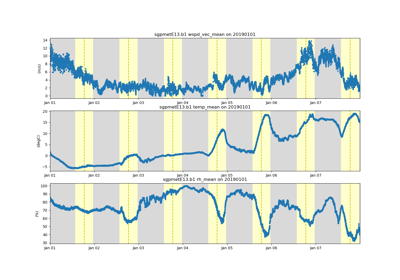
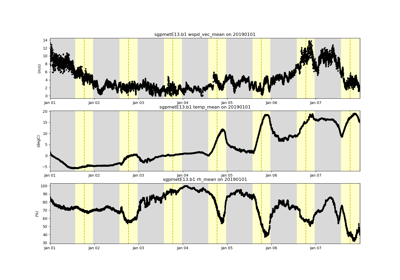
Update docs after building Travis build 20 of ANL-DIGR/ACT
The docs were built from the branch 'master' against the commit
f378dfc33ecbd9dd4ad20f213ddc9279e0b0f3ac.

The Travis build that generated this commit is at
https://travis-ci.org/ANL-DIGR/ACT/jobs/510134989.

The doctr command that was run is

    /home/travis/miniconda3/envs/testenv/bin/doctr deploy .

diff --git a/searchindex.js b/searchindex.js
@@ -1,1 +1,1 @@
-Search.setIndex({docnames:["API/corrections","API/discovery","API/generated/act.corrections.ceil.correct_ceil","API/generated/act.discovery.download_data","API/generated/act.io.armfiles.ARMStandardsFlag","API/generated/act.io.armfiles.check_arm_standards","API/generated/act.io.armfiles.read_netcdf","API/generated/act.io.dataset.ACTAccessor","API/generated/act.plotting.TimeSeriesDisplay","API/generated/act.plotting.common.get_date_format","API/generated/act.plotting.common.parse_ax","API/generated/act.plotting.common.parse_ax_fig","API/generated/act.utils.data_utils.add_in_nan","API/generated/act.utils.datetime_utils.dates_between","API/index","API/io","API/plotting","API/retrievals","API/utils","index","installation","release-history","source/auto_examples/ceil_example","source/auto_examples/index","source/auto_examples/plot_sonde","source/auto_examples/sg_execution_times","usage"],envversion:{"sphinx.domains.c":1,"sphinx.domains.changeset":1,"sphinx.domains.cpp":1,"sphinx.domains.javascript":1,"sphinx.domains.math":2,"sphinx.domains.python":1,"sphinx.domains.rst":1,"sphinx.domains.std":1,"sphinx.ext.intersphinx":1,"sphinx.ext.viewcode":1,sphinx:55},filenames:["API/corrections.rst","API/discovery.rst","API/generated/act.corrections.ceil.correct_ceil.rst","API/generated/act.discovery.download_data.rst","API/generated/act.io.armfiles.ARMStandardsFlag.rst","API/generated/act.io.armfiles.check_arm_standards.rst","API/generated/act.io.armfiles.read_netcdf.rst","API/generated/act.io.dataset.ACTAccessor.rst","API/generated/act.plotting.TimeSeriesDisplay.rst","API/generated/act.plotting.common.get_date_format.rst","API/generated/act.plotting.common.parse_ax.rst","API/generated/act.plotting.common.parse_ax_fig.rst","API/generated/act.utils.data_utils.add_in_nan.rst","API/generated/act.utils.datetime_utils.dates_between.rst","API/index.rst","API/io.rst","API/plotting.rst","API/retrievals.rst","API/utils.rst","index.rst","installation.rst","release-history.rst","source/auto_examples/ceil_example.rst","source/auto_examples/index.rst","source/auto_examples/plot_sonde.rst","source/auto_examples/sg_execution_times.rst","usage.rst"],objects:{"act.corrections.ceil":{correct_ceil:[2,1,1,""]},"act.discovery":{download_data:[3,1,1,""]},"act.io.armfiles":{ARMStandardsFlag:[4,2,1,""],check_arm_standards:[5,1,1,""],read_netcdf:[6,1,1,""]},"act.io.armfiles.ARMStandardsFlag":{__init__:[4,3,1,""]},"act.io.dataset":{ACTAccessor:[7,2,1,""]},"act.io.dataset.ACTAccessor":{__init__:[7,3,1,""]},"act.plotting":{TimeSeriesDisplay:[8,2,1,""]},"act.plotting.TimeSeriesDisplay":{__init__:[8,3,1,""]},"act.plotting.common":{get_date_format:[9,1,1,""],parse_ax:[10,1,1,""],parse_ax_fig:[11,1,1,""]},"act.utils.data_utils":{add_in_nan:[12,1,1,""]},"act.utils.datetime_utils":{dates_between:[13,1,1,""]},act:{corrections:[0,0,0,"-"],discovery:[1,0,0,"-"],io:[15,0,0,"-"],plotting:[16,0,0,"-"],retrievals:[17,0,0,"-"],utils:[18,0,0,"-"]}},objnames:{"0":["py","module","Python module"],"1":["py","function","Python function"],"2":["py","class","Python class"],"3":["py","method","Python method"]},objtypes:{"0":"py:module","1":"py:function","2":"py:class","3":"py:method"},terms:{"07t23":24,"class":[4,7,8],"final":26,"float":[2,9],"function":7,"import":[6,7,22,24,26],"long":9,"new":8,"return":[2,3,4,5,6,9,10,11,13],For:[8,26],The:[0,2,3,5,7,8,9,10,11,13,20,24,26],There:20,Ths:13,Will:7,__init__:[4,7,8],abil:21,abl:26,about:3,abov:26,access:[3,26],accessor:7,accur:[4,7,8],acquir:3,act:[14,19,20,22,24,26],act_obj:6,actaccessor:[14,19],adamtheisen:20,adc:3,add:[7,12,26],add_in_nan:[14,19],add_subplot:[8,24,26],addit:[7,20,26],all:[2,3,13,18,23,26],all_dat:13,allow:[3,26],along:26,also:[3,20,26],alt:[24,26],api:[3,19],archiv:[3,26],arg:4,argument:8,arm:[0,1,2,3,4,5,6,7,8,14,15,16,17,18,20,21,24,26],arm_obj:[2,8],arm_standards_flag:7,armfil:[14,19,22,24,26],armstandardsflag:[5,7,14,19],arrai:[13,24],assert:4,assign:24,atmos_pressur:24,atmospher:26,attr:24,attribut:[4,7,8,24],author:[3,24],auto_examples_jupyt:23,auto_examples_python:23,autom:3,automat:[3,7],avail:[8,12],averaging_interv:24,averaging_interval_com:24,axes:[8,26],axi:[8,9,10,11],backscatt:[2,22],bad:24,base:26,base_tim:24,being:8,between:[13,24],bit:24,bucket:24,build:20,calcul:24,call:8,can:[3,7,20,26],cbs:8,ceil:[14,19,22],ceil_d:22,ceil_exampl:[22,25],ceiliomet:[2,22],ceilomet:[23,25],celiomet:2,check:5,check_arm_standard:[4,14,19],chunksiz:24,click:[3,22,24],clone:20,code:[3,22,23,24,26],collect:24,colorbar:8,column:8,com:20,come:26,command_lin:24,common:[14,18,19],commun:[14,18,20,26],concaten:26,conform:[4,5,7],constructor:8,contact:3,contain:[0,1,2,8,13,15,16,17,18],convert:2,coordin:24,correct:[14,19,22],correct_ceil:[14,19,22],correspond:[5,7,12],creat:[8,24],criteria:3,cron:3,current:[3,10,11,24,26],custom:26,dai:9,dask:24,data:[1,2,3,6,7,12,21,23,25,26],data_level:24,data_util:[14,19],dataarrai:8,dataset:[0,2,4,5,6,8,9,14,15,16,19,21,24,26],datasetaccessor:26,datastream:[3,4,6,7,8,21,24,26],date:[3,7,8,9,13,14],dateformatt:9,dates_between:[14,19],datetim:[7,13],datetime64:24,datetime_util:[14,19],datset:17,day_to_hour_threshold:9,defin:6,describ:7,desir:26,detail:14,detector:24,devarakonda:3,dict:8,dictionari:8,differ:[23,24],dimens:[24,26],directori:3,discoveri:[14,19,22,26],disk:3,disp:8,displai:[8,22,24,26],document:[8,14],dod_vers:24,doe:4,download:[1,3,21,22,23,24,26],download_data:[14,19,22],dsmgr:24,e13:24,each:[7,8,14,24,26],eas:26,easi:26,edat:13,either:21,el6:24,elimin:3,email:3,end:[3,13],enddat:3,enter:2,equal:24,exampl:[3,4,6,8,19,25,26],example_sonde_wildcard:[6,24,26],execut:25,explor:1,extens:26,facility_id:24,field:[4,8,24],fig:[8,11,26],figsiz:[8,22,24,26],figur:[8,11,26],file:[3,5,6,7,8,24,25,26],file_d:[7,8],file_tim:7,filenam:6,fill:2,fill_valu:2,flag:[4,5],float32:24,float64:24,folder:[3,26],follow:[3,26],format:[3,9,13,26],found:3,from:[3,6,20,21,22,24,26],full:[22,24],further:26,g1ed516a:14,galleri:[19,22,24],gap:12,gaug:24,gener:[7,22,23,24,26],get:[10,11],get_data:26,get_date_format:[14,19],giansiracumt:3,giansiracusa:3,git:20,github:20,given:[7,9,10,11,12,26],gov:3,great:24,greater:24,hand:8,handbook:24,handl:[8,26],has:[8,26],have:[3,4,12],help:[3,4,7,8],here:[3,22,23,24],histori:[19,24],hour:9,how:[3,22,23,25,26],hpss:3,html:26,http:[20,26],includ:7,indetermin:24,indicat:24,inform:[3,8],ingest:24,initi:[4,7,8],input_sourc:24,insid:8,instal:19,instead:9,instrument:24,int32:24,interfac:3,ipynb:[22,24],irregular:12,jackson:24,jan:3,job:3,jupyt:[22,23,24],kei:8,keyword:8,kwarg:[4,8],lamont:24,lat:24,lcl:24,less:24,linear:2,link:[3,8],list:[6,7,8,26],live:3,load:[6,26],location_descript:24,log:3,logarithm:2,logger_temp:24,logger_volt:24,login:3,lon:24,long_nam:24,look:[23,25],machin:[3,24],main:26,make:[3,21,26],manual:3,mar:14,match:3,matplotlib:[8,9,10,11,22,24,26],met:[24,26],met_ingest:24,met_lcl:24,met_rh:24,met_temp:24,metadata:6,method:[7,8],michael:3,minut:[22,24],missing_valu:24,modifi:26,modul:[0,1,14,15,16,17,18,26],more:[3,8],multi:26,multipanel:[21,26],multipl:26,my_flag:4,myfmt:9,name:[3,6,7,8,26],nan:12,need:7,neg:2,netcdf:[3,6,26],no_datastream:4,none:[3,6,7,8,10,11],note:3,notebook:[22,23,24],number:[8,9],object:[2,6,8,9,26],obtain:3,off:26,oklahoma:[22,24],option:6,order:3,org:26,org_precip_rate_mean:24,ornl:3,other:3,out:24,output:[3,26],over:22,pack:24,panel:26,paramet:[2,3,5,6,8,9,10,11,13],pars:[10,11],parse_ax:[14,19],parse_ax_fig:[14,19],particular:26,pass:8,period:12,pip:20,place:[3,22],plain:24,platform_id:24,plot:[14,19,21,22,23,25,26],plot_sond:[24,25],plot_var:8,plt:[8,22,24,26],point:24,post46:14,preced:26,present:24,previou:24,print:[6,22,24,26],procedu:18,procedur:[0,1,2,12,13,14,15,16],process:3,process_vers:24,programmat:3,properti:26,provid:[8,14,23,26],pwd:24,pwd_cumul_rain:24,pwd_cumul_snow:24,pwd_err_cod:24,pwd_mean_vis_10min:24,pwd_mean_vis_1min:24,pwd_precip_rate_mean_1min:24,pwd_pw_code_15min:24,pwd_pw_code_1hr:24,pwd_pw_code_inst:24,pydata:26,pyplot:[22,24],python:[20,22,23,24],qc_atmos_pressur:24,qc_bit_1_assess:24,qc_bit_1_descript:24,qc_bit_2_assess:24,qc_bit_2_descript:24,qc_bit_3_assess:24,qc_bit_3_descript:24,qc_bit_4_assess:24,qc_bit_4_descript:24,qc_bit_com:24,qc_logger_temp:24,qc_logger_volt:24,qc_org_precip_rate_mean:24,qc_pwd_cumul_rain:24,qc_pwd_cumul_snow:24,qc_pwd_mean_vis_10min:24,qc_pwd_mean_vis_1min:24,qc_pwd_precip_rate_mean_1min:24,qc_pwd_pw_code_15min:24,qc_pwd_pw_code_1hr:24,qc_pwd_pw_code_inst:24,qc_rh_mean:24,qc_tbrg_precip_tot:24,qc_tbrg_precip_total_corr:24,qc_temp_mean:24,qc_vapor_pressure_mean:24,qc_wdir_vec_mean:24,qc_wspd_arith_mean:24,qc_wspd_vec_mean:24,queri:[3,6],rain:24,ranjeet:3,read:[6,7,15,21,23,26],read_netcdf:[8,14,19,22,24,26],reader:7,recommend:20,ref:4,refer:19,regist:[3,7],regular:3,releas:[14,19],replac:3,repres:[8,24],requir:26,rest:3,retriev:[14,19],rh_mean:[24,26],rh_std:24,robert:24,routin:26,row:8,rubi:24,run:[22,24],same:[3,8,26],sample_fil:[6,24,26],sampling_interv:24,savedata:3,script:[22,24],sdate:13,second:[22,24],see:[3,4,5,7,8,24],self:[4,7,8],seri:26,serial_numb:24,servic:3,set:[3,4,8,10,11],setup:[3,20],sgp:[22,24],sgpceilc1:22,sgpmete13:[3,24,26],shape:24,should:2,show:[7,14,22,24,26],signatur:[4,7,8],simpl:24,simpli:[8,26],singl:6,site:[7,22,24],site_id:24,snippet:26,sound:[6,23,25,26],sourc:[2,3,4,5,6,7,8,9,10,11,12,13,20,22,23,24],source_auto_exampl:25,southern:24,space:2,specif:3,specifi:26,sphinx:[22,23,24],spin:3,stabl:26,standard:[4,5,6,7,26],start:[3,13,26],startdat:3,step:3,store:[4,6,7,8,26],str:[3,6,7,8,13],string:[7,13,26],structur:7,subplot:[8,26],subplot_index:[22,24,26],subplot_shap:[8,22],support:[21,26],table1:24,take:[8,26],targer:11,target:[10,11],tbrg:24,tbrg_precip_corr_info:24,tbrg_precip_tot:24,tbrg_precip_total_corr:24,temp_mean:[24,26],temp_std:24,test:[6,24,26],than:24,the_d:[6,26],the_fil:8,the_flag:6,them:3,therefor:26,thi:[0,1,2,3,4,6,7,8,9,12,14,15,16,17,18,22,24,26],threshold:9,through:3,tick:9,time:[7,12,22,24,26],time_offset:24,timeseri:[8,12,21,23,25,26],timeseriesdisplai:[14,19,22,24,26],tip:24,token:[3,22,26],tool:3,toolkit:[14,18,20,26],total:[22,24,25],tupl:8,two:20,type:[4,7,8],under:9,unit:[6,24],until:8,url:3,usag:19,use:[2,3,9,20],used:[6,18,26],useful:12,user:[3,6,24,26],usernam:[3,22,26],uses:3,using:[3,23],util:[3,14,19],valid_max:24,valid_min:24,valu:[2,24],vapor_pressure_mean:24,vapor_pressure_std:24,variabl:[6,8,24],variou:[0,15,17],visual:23,wai:20,want:26,wdir_vec_mean:24,wdir_vec_std:24,weather:24,web:3,webservic:3,what:8,when:[7,12],whether:[5,7],which:3,wildcard:26,wind_speed_offset:24,wind_speed_slop:24,work:3,workspac:3,write:15,wspd_arith_mean:24,wspd_vec_mean:24,xarrai:[5,6,7,8,24,26],xarray_obj:7,xxxxxxxxxxxxxxxx:[3,26],you:20,your:[3,22],yourself:7,yyyi:3,yyyymmdd:13,zero:2,zip:23,zzr:3},titles:["act.corrections (act.corrections)","act.discovery (act.discovery)","act.corrections.ceil.correct_ceil","act.discovery.download_data","act.io.armfiles.ARMStandardsFlag","act.io.armfiles.check_arm_standards","act.io.armfiles.read_netcdf","act.io.dataset.ACTAccessor","act.plotting.TimeSeriesDisplay","act.plotting.common.get_date_format","act.plotting.common.parse_ax","act.plotting.common.parse_ax_fig","act.utils.data_utils.add_in_nan","act.utils.datetime_utils.dates_between","API Reference","act.io (act.io)","act.plotting (act.plotting)","act.retrievals (act.retrievals)","act.utils (act.utils)","Atmospheirc Community Toolkit Documentation","Installation","Release History","Example for looking at ceilometer data","ACT Example Gallery","Example on how to plot a timeseries of sounding data","Computation times","Usage"],titleterms:{act:[0,1,2,3,4,5,6,7,8,9,10,11,12,13,15,16,17,18,23],actaccessor:7,add_in_nan:12,api:14,armfil:[4,5,6],armstandardsflag:4,atmospheirc:19,ceil:2,ceilomet:22,check_arm_standard:5,common:[9,10,11],commun:19,comput:25,correct:[0,2],correct_ceil:2,data:[22,24],data_util:12,dataset:7,dates_between:13,datetime_util:13,discoveri:[1,3],document:19,download_data:3,exampl:[22,23,24],galleri:23,get_date_format:9,histori:21,how:24,instal:20,look:22,parse_ax:10,parse_ax_fig:11,plot:[8,9,10,11,16,24],read_netcdf:6,refer:14,releas:21,retriev:17,sound:24,time:25,timeseri:24,timeseriesdisplai:8,toolkit:19,usag:26,util:[12,13,18]}})
+Search.setIndex({docnames:["API/corrections","API/discovery","API/generated/act.corrections.ceil.correct_ceil","API/generated/act.discovery.download_data","API/generated/act.io.armfiles.ARMStandardsFlag","API/generated/act.io.armfiles.check_arm_standards","API/generated/act.io.armfiles.read_netcdf","API/generated/act.io.dataset.ACTAccessor","API/generated/act.plotting.TimeSeriesDisplay","API/generated/act.plotting.common.get_date_format","API/generated/act.plotting.common.parse_ax","API/generated/act.plotting.common.parse_ax_fig","API/generated/act.utils.data_utils.add_in_nan","API/generated/act.utils.datetime_utils.dates_between","API/index","API/io","API/plotting","API/retrievals","API/utils","index","installation","release-history","source/auto_examples/ceil_example","source/auto_examples/index","source/auto_examples/plot_sonde","source/auto_examples/sg_execution_times","usage"],envversion:{"sphinx.domains.c":1,"sphinx.domains.changeset":1,"sphinx.domains.cpp":1,"sphinx.domains.javascript":1,"sphinx.domains.math":2,"sphinx.domains.python":1,"sphinx.domains.rst":1,"sphinx.domains.std":1,"sphinx.ext.intersphinx":1,"sphinx.ext.viewcode":1,sphinx:55},filenames:["API/corrections.rst","API/discovery.rst","API/generated/act.corrections.ceil.correct_ceil.rst","API/generated/act.discovery.download_data.rst","API/generated/act.io.armfiles.ARMStandardsFlag.rst","API/generated/act.io.armfiles.check_arm_standards.rst","API/generated/act.io.armfiles.read_netcdf.rst","API/generated/act.io.dataset.ACTAccessor.rst","API/generated/act.plotting.TimeSeriesDisplay.rst","API/generated/act.plotting.common.get_date_format.rst","API/generated/act.plotting.common.parse_ax.rst","API/generated/act.plotting.common.parse_ax_fig.rst","API/generated/act.utils.data_utils.add_in_nan.rst","API/generated/act.utils.datetime_utils.dates_between.rst","API/index.rst","API/io.rst","API/plotting.rst","API/retrievals.rst","API/utils.rst","index.rst","installation.rst","release-history.rst","source/auto_examples/ceil_example.rst","source/auto_examples/index.rst","source/auto_examples/plot_sonde.rst","source/auto_examples/sg_execution_times.rst","usage.rst"],objects:{"act.corrections.ceil":{correct_ceil:[2,1,1,""]},"act.discovery":{download_data:[3,1,1,""]},"act.io.armfiles":{ARMStandardsFlag:[4,2,1,""],check_arm_standards:[5,1,1,""],read_netcdf:[6,1,1,""]},"act.io.armfiles.ARMStandardsFlag":{__init__:[4,3,1,""]},"act.io.dataset":{ACTAccessor:[7,2,1,""]},"act.io.dataset.ACTAccessor":{__init__:[7,3,1,""]},"act.plotting":{TimeSeriesDisplay:[8,2,1,""]},"act.plotting.TimeSeriesDisplay":{__init__:[8,3,1,""]},"act.plotting.common":{get_date_format:[9,1,1,""],parse_ax:[10,1,1,""],parse_ax_fig:[11,1,1,""]},"act.utils.data_utils":{add_in_nan:[12,1,1,""]},"act.utils.datetime_utils":{dates_between:[13,1,1,""]},act:{corrections:[0,0,0,"-"],discovery:[1,0,0,"-"],io:[15,0,0,"-"],plotting:[16,0,0,"-"],retrievals:[17,0,0,"-"],utils:[18,0,0,"-"]}},objnames:{"0":["py","module","Python module"],"1":["py","function","Python function"],"2":["py","class","Python class"],"3":["py","method","Python method"]},objtypes:{"0":"py:module","1":"py:function","2":"py:class","3":"py:method"},terms:{"07t23":24,"class":[4,7,8],"final":26,"float":[2,9],"function":7,"import":[6,7,22,24,26],"long":9,"new":8,"return":[2,3,4,5,6,9,10,11,13],For:[8,26],The:[0,2,3,5,7,8,9,10,11,13,20,24,26],There:20,Ths:13,Will:7,__init__:[4,7,8],abil:21,abl:26,about:3,abov:26,access:[3,26],accessor:7,accur:[4,7,8],acquir:3,act:[14,19,20,22,24,26],act_obj:6,actaccessor:[14,19],adamtheisen:20,adc:3,add:[7,12,26],add_in_nan:[14,19],add_subplot:[8,24,26],addit:[7,20,26],all:[2,3,13,18,23,26],all_dat:13,allow:[3,26],along:26,also:[3,20,26],alt:[24,26],api:[3,19],archiv:[3,26],arg:4,argument:8,arm:[0,1,2,3,4,5,6,7,8,14,15,16,17,18,20,21,24,26],arm_obj:[2,8],arm_standards_flag:7,armfil:[14,19,22,24,26],armstandardsflag:[5,7,14,19],arrai:[13,24],assert:4,assign:24,atmos_pressur:24,atmospher:26,attr:24,attribut:[4,7,8,24],author:[3,24],auto_examples_jupyt:23,auto_examples_python:23,autom:3,automat:[3,7],avail:[8,12],averaging_interv:24,averaging_interval_com:24,axes:[8,26],axi:[8,9,10,11],backscatt:[2,22],bad:24,base:26,base_tim:24,being:8,between:[13,24],bit:24,bucket:24,build:20,calcul:24,call:8,can:[3,7,20,26],cbs:8,ceil:[14,19,22],ceil_d:22,ceil_exampl:[22,25],ceiliomet:[2,22],ceilomet:[23,25],celiomet:2,check:5,check_arm_standard:[4,14,19],chunksiz:24,click:[3,22,24],clone:20,code:[3,22,23,24,26],collect:24,colorbar:8,column:8,com:20,come:26,command_lin:24,common:[14,18,19],commun:[14,18,20,26],concaten:26,conform:[4,5,7],constructor:8,contact:3,contain:[0,1,2,8,13,15,16,17,18],convert:2,coordin:24,correct:[14,19,22],correct_ceil:[14,19,22],correspond:[5,7,12],creat:[8,24],criteria:3,cron:3,current:[3,10,11,24,26],custom:26,dai:9,dask:24,data:[1,2,3,6,7,12,21,23,25,26],data_level:24,data_util:[14,19],dataarrai:8,dataset:[0,2,4,5,6,8,9,14,15,16,19,21,24,26],datasetaccessor:26,datastream:[3,4,6,7,8,21,24,26],date:[3,7,8,9,13,14],dateformatt:9,dates_between:[14,19],datetim:[7,13],datetime64:24,datetime_util:[14,19],datset:17,day_to_hour_threshold:9,defin:6,describ:7,desir:26,detail:14,detector:24,devarakonda:3,dict:8,dictionari:8,differ:[23,24],dimens:[24,26],directori:3,discoveri:[14,19,22,26],disk:3,disp:8,displai:[8,22,24,26],document:[8,14],dod_vers:24,doe:4,download:[1,3,21,22,23,24,26],download_data:[14,19,22],dsmgr:24,e13:24,each:[7,8,14,24,26],eas:26,easi:26,edat:13,either:21,el6:24,elimin:3,email:3,end:[3,13],enddat:3,enter:2,equal:24,exampl:[3,4,6,8,19,25,26],example_sonde_wildcard:[6,24,26],execut:25,explor:1,extens:26,facility_id:24,field:[4,8,24],fig:[8,11,26],figsiz:[8,22,24,26],figur:[8,11,26],file:[3,5,6,7,8,24,25,26],file_d:[7,8],file_tim:7,filenam:6,fill:2,fill_valu:2,flag:[4,5],float32:24,float64:24,folder:[3,26],follow:[3,26],format:[3,9,13,26],found:3,from:[3,6,20,21,22,24,26],full:[22,24],further:26,galleri:[19,22,24],gap:12,gaug:24,gener:[7,22,23,24,26],get:[10,11],get_data:26,get_date_format:[14,19],gf378dfc:14,giansiracumt:3,giansiracusa:3,git:20,github:20,given:[7,9,10,11,12,26],gov:3,great:24,greater:24,hand:8,handbook:24,handl:[8,26],has:[8,26],have:[3,4,12],help:[3,4,7,8],here:[3,22,23,24],histori:[19,24],hour:9,how:[3,22,23,25,26],hpss:3,html:26,http:[20,26],includ:7,indetermin:24,indicat:24,inform:[3,8],ingest:24,initi:[4,7,8],input_sourc:24,insid:8,instal:19,instead:9,instrument:24,int32:24,interfac:3,ipynb:[22,24],irregular:12,jackson:24,jan:3,job:3,jupyt:[22,23,24],kei:8,keyword:8,kwarg:[4,8],lamont:24,lat:24,lcl:24,less:24,linear:2,link:[3,8],list:[6,7,8,26],live:3,load:[6,26],location_descript:24,log:3,logarithm:2,logger_temp:24,logger_volt:24,login:3,lon:24,long_nam:24,look:[23,25],machin:[3,24],main:26,make:[3,21,26],manual:3,mar:14,match:3,matplotlib:[8,9,10,11,22,24,26],met:[24,26],met_ingest:24,met_lcl:24,met_rh:24,met_temp:24,metadata:6,method:[7,8],michael:3,minut:[22,24],missing_valu:24,modifi:26,modul:[0,1,14,15,16,17,18,26],more:[3,8],multi:26,multipanel:[21,26],multipl:26,my_flag:4,myfmt:9,name:[3,6,7,8,26],nan:12,need:7,neg:2,netcdf:[3,6,26],no_datastream:4,none:[3,6,7,8,10,11],note:3,notebook:[22,23,24],number:[8,9],object:[2,6,8,9,26],obtain:3,off:26,oklahoma:[22,24],option:6,order:3,org:26,org_precip_rate_mean:24,ornl:3,other:3,out:24,output:[3,26],over:22,pack:24,panel:26,paramet:[2,3,5,6,8,9,10,11,13],pars:[10,11],parse_ax:[14,19],parse_ax_fig:[14,19],particular:26,pass:8,period:12,pip:20,place:[3,22],plain:24,platform_id:24,plot:[14,19,21,22,23,25,26],plot_sond:[24,25],plot_var:8,plt:[8,22,24,26],point:24,post48:14,preced:26,present:24,previou:24,print:[6,22,24,26],procedu:18,procedur:[0,1,2,12,13,14,15,16],process:3,process_vers:24,programmat:3,properti:26,provid:[8,14,23,26],pwd:24,pwd_cumul_rain:24,pwd_cumul_snow:24,pwd_err_cod:24,pwd_mean_vis_10min:24,pwd_mean_vis_1min:24,pwd_precip_rate_mean_1min:24,pwd_pw_code_15min:24,pwd_pw_code_1hr:24,pwd_pw_code_inst:24,pydata:26,pyplot:[22,24],python:[20,22,23,24],qc_atmos_pressur:24,qc_bit_1_assess:24,qc_bit_1_descript:24,qc_bit_2_assess:24,qc_bit_2_descript:24,qc_bit_3_assess:24,qc_bit_3_descript:24,qc_bit_4_assess:24,qc_bit_4_descript:24,qc_bit_com:24,qc_logger_temp:24,qc_logger_volt:24,qc_org_precip_rate_mean:24,qc_pwd_cumul_rain:24,qc_pwd_cumul_snow:24,qc_pwd_mean_vis_10min:24,qc_pwd_mean_vis_1min:24,qc_pwd_precip_rate_mean_1min:24,qc_pwd_pw_code_15min:24,qc_pwd_pw_code_1hr:24,qc_pwd_pw_code_inst:24,qc_rh_mean:24,qc_tbrg_precip_tot:24,qc_tbrg_precip_total_corr:24,qc_temp_mean:24,qc_vapor_pressure_mean:24,qc_wdir_vec_mean:24,qc_wspd_arith_mean:24,qc_wspd_vec_mean:24,queri:[3,6],rain:24,ranjeet:3,read:[6,7,15,21,23,26],read_netcdf:[8,14,19,22,24,26],reader:7,recommend:20,ref:4,refer:19,regist:[3,7],regular:3,releas:[14,19],replac:3,repres:[8,24],requir:26,rest:3,retriev:[14,19],rh_mean:[24,26],rh_std:24,robert:24,routin:26,row:8,rubi:24,run:[22,24],same:[3,8,26],sample_fil:[6,24,26],sampling_interv:24,savedata:3,script:[22,24],sdate:13,second:[22,24],see:[3,4,5,7,8,24],self:[4,7,8],seri:26,serial_numb:24,servic:3,set:[3,4,8,10,11],setup:[3,20],sgp:[22,24],sgpceilc1:22,sgpmete13:[3,24,26],shape:24,should:2,show:[7,14,22,24,26],signatur:[4,7,8],simpl:24,simpli:[8,26],singl:6,site:[7,22,24],site_id:24,snippet:26,sound:[6,23,25,26],sourc:[2,3,4,5,6,7,8,9,10,11,12,13,20,22,23,24],source_auto_exampl:25,southern:24,space:2,specif:3,specifi:26,sphinx:[22,23,24],spin:3,stabl:26,standard:[4,5,6,7,26],start:[3,13,26],startdat:3,step:3,store:[4,6,7,8,26],str:[3,6,7,8,13],string:[7,13,26],structur:7,subplot:[8,26],subplot_index:[22,24,26],subplot_shap:[8,22],support:[21,26],table1:24,take:[8,26],targer:11,target:[10,11],tbrg:24,tbrg_precip_corr_info:24,tbrg_precip_tot:24,tbrg_precip_total_corr:24,temp_mean:[24,26],temp_std:24,test:[6,24,26],than:24,the_d:[6,26],the_fil:8,the_flag:6,them:3,therefor:26,thi:[0,1,2,3,4,6,7,8,9,12,14,15,16,17,18,22,24,26],threshold:9,through:3,tick:9,time:[7,12,22,24,26],time_offset:24,timeseri:[8,12,21,23,25,26],timeseriesdisplai:[14,19,22,24,26],tip:24,token:[3,22,26],tool:3,toolkit:[14,18,20,26],total:[22,24,25],tupl:8,two:20,type:[4,7,8],under:9,unit:[6,24],until:8,url:3,usag:19,use:[2,3,9,20],used:[6,18,26],useful:12,user:[3,6,24,26],usernam:[3,22,26],uses:3,using:[3,23],util:[3,14,19],valid_max:24,valid_min:24,valu:[2,24],vapor_pressure_mean:24,vapor_pressure_std:24,variabl:[6,8,24],variou:[0,15,17],visual:23,wai:20,want:26,wdir_vec_mean:24,wdir_vec_std:24,weather:24,web:3,webservic:3,what:8,when:[7,12],whether:[5,7],which:3,wildcard:26,wind_speed_offset:24,wind_speed_slop:24,work:3,workspac:3,write:15,wspd_arith_mean:24,wspd_vec_mean:24,xarrai:[5,6,7,8,24,26],xarray_obj:7,xxxxxxxxxxxxxxxx:[3,26],you:20,your:[3,22],yourself:7,yyyi:3,yyyymmdd:13,zero:2,zip:23,zzr:3},titles:["act.corrections (act.corrections)","act.discovery (act.discovery)","act.corrections.ceil.correct_ceil","act.discovery.download_data","act.io.armfiles.ARMStandardsFlag","act.io.armfiles.check_arm_standards","act.io.armfiles.read_netcdf","act.io.dataset.ACTAccessor","act.plotting.TimeSeriesDisplay","act.plotting.common.get_date_format","act.plotting.common.parse_ax","act.plotting.common.parse_ax_fig","act.utils.data_utils.add_in_nan","act.utils.datetime_utils.dates_between","API Reference","act.io (act.io)","act.plotting (act.plotting)","act.retrievals (act.retrievals)","act.utils (act.utils)","Atmospheirc Community Toolkit Documentation","Installation","Release History","Example for looking at ceilometer data","ACT Example Gallery","Example on how to plot a timeseries of sounding data","Computation times","Usage"],titleterms:{act:[0,1,2,3,4,5,6,7,8,9,10,11,12,13,15,16,17,18,23],actaccessor:7,add_in_nan:12,api:14,armfil:[4,5,6],armstandardsflag:4,atmospheirc:19,ceil:2,ceilomet:22,check_arm_standard:5,common:[9,10,11],commun:19,comput:25,correct:[0,2],correct_ceil:2,data:[22,24],data_util:12,dataset:7,dates_between:13,datetime_util:13,discoveri:[1,3],document:19,download_data:3,exampl:[22,23,24],galleri:23,get_date_format:9,histori:21,how:24,instal:20,look:22,parse_ax:10,parse_ax_fig:11,plot:[8,9,10,11,16,24],read_netcdf:6,refer:14,releas:21,retriev:17,sound:24,time:25,timeseri:24,timeseriesdisplai:8,toolkit:19,usag:26,util:[12,13,18]}})

diff --git a/_modules/act/plotting/plot.html b/_modules/act/plotting/plot.html
@@ -8,7 +8,7 @@
   
   <meta name="viewport" content="width=device-width, initial-scale=1.0">
   
-  <title>act.plotting.plot &mdash; Atmospheric Community Toolkit 0.post46+g1ed516a documentation</title>
+  <title>act.plotting.plot &mdash; Atmospheric Community Toolkit 0.post48+gf378dfc documentation</title>
   
 
   
@@ -62,7 +62,7 @@
             
             
               <div class="version">
-                0.post46+g1ed516a
+                0.post48+gf378dfc
               </div>
             
           
@@ -405,7 +405,7 @@
         <span class="k">return</span> <span class="n">cbar</span>
 
     <span class="k">def</span> <span class="nf">plot</span><span class="p">(</span><span class="bp">self</span><span class="p">,</span> <span class="n">field</span><span class="p">,</span> <span class="n">subplot_index</span><span class="o">=</span><span class="p">(</span><span class="mi">0</span><span class="p">,</span> <span class="p">),</span>
-             <span class="n">cmap</span><span class="o">=</span><span class="kc">None</span><span class="p">,</span> <span class="n">cbmin</span><span class="o">=</span><span class="kc">None</span><span class="p">,</span> <span class="n">cbmax</span><span class="o">=</span><span class="kc">None</span><span class="p">,</span> <span class="n">set_title</span><span class="o">=</span><span class="kc">None</span><span class="p">,</span>
+             <span class="n">line_color</span><span class="o">=</span><span class="s1">&#39;k&#39;</span><span class="p">,</span> <span class="n">cmap</span><span class="o">=</span><span class="kc">None</span><span class="p">,</span> <span class="n">cbmin</span><span class="o">=</span><span class="kc">None</span><span class="p">,</span> <span class="n">cbmax</span><span class="o">=</span><span class="kc">None</span><span class="p">,</span> <span class="n">set_title</span><span class="o">=</span><span class="kc">None</span><span class="p">,</span>
              <span class="n">add_nan</span><span class="o">=</span><span class="kc">False</span><span class="p">,</span> <span class="o">**</span><span class="n">kwargs</span><span class="p">):</span>
         <span class="sd">&quot;&quot;&quot;</span>
 <span class="sd">        Makes a timeseries plot. If subplots have not been added yet, an axis will</span>
@@ -421,6 +421,8 @@
 <span class="sd">            The index of the subplot to set the x range of.</span>
 <span class="sd">        cmap: matplotlib colormap</span>
 <span class="sd">            The colormap to use/</span>
+<span class="sd">        line_color: str</span>
+<span class="sd">            The color of the line.</span>
 <span class="sd">        cbmin: float</span>
 <span class="sd">            The minimum for the colorbar.</span>
 <span class="sd">        cbmax: float</span>
@@ -457,7 +459,7 @@
 
         <span class="k">if</span> <span class="n">ydata</span> <span class="ow">is</span> <span class="kc">None</span><span class="p">:</span>
             <span class="bp">self</span><span class="o">.</span><span class="n">day_night_background</span><span class="p">(</span><span class="n">subplot_index</span><span class="p">)</span>
-            <span class="n">ax</span><span class="o">.</span><span class="n">plot</span><span class="p">(</span><span class="n">xdata</span><span class="p">,</span> <span class="n">data</span><span class="p">,</span> <span class="s1">&#39;.&#39;</span><span class="p">)</span>
+            <span class="n">ax</span><span class="o">.</span><span class="n">plot</span><span class="p">(</span><span class="n">xdata</span><span class="p">,</span> <span class="n">data</span><span class="p">,</span> <span class="s1">&#39;.&#39;</span><span class="p">,</span> <span class="n">color</span><span class="o">=</span><span class="n">line_color</span><span class="p">)</span>
         <span class="k">else</span><span class="p">:</span>
             <span class="c1"># Add in nans to ensure the data are not streaking</span>
             <span class="k">if</span> <span class="n">add_nan</span> <span class="ow">is</span> <span class="kc">True</span><span class="p">:</span>

diff --git a/source/auto_examples/sg_execution_times.html b/source/auto_examples/sg_execution_times.html
@@ -8,7 +8,7 @@
   
   <meta name="viewport" content="width=device-width, initial-scale=1.0">
   
-  <title>Computation times &mdash; Atmospheric Community Toolkit 0.post46+g1ed516a documentation</title>
+  <title>Computation times &mdash; Atmospheric Community Toolkit 0.post48+gf378dfc documentation</title>
   
 
   
@@ -62,7 +62,7 @@
             
             
               <div class="version">
-                0.post46+g1ed516a
+                0.post48+gf378dfc
               </div>
             
           
@@ -158,9 +158,9 @@
             
   <div class="section" id="computation-times">
 <span id="sphx-glr-source-auto-examples-sg-execution-times"></span><h1>Computation times<a class="headerlink" href="#computation-times" title="Permalink to this headline">¶</a></h1>
-<p><strong>00:00.950</strong> total execution time for <strong>source_auto_examples</strong> files:</p>
+<p><strong>00:00.927</strong> total execution time for <strong>source_auto_examples</strong> files:</p>
 <ul class="simple">
-<li><strong>00:00.950</strong>: <a class="reference internal" href="plot_sonde.html#sphx-glr-source-auto-examples-plot-sonde-py"><span class="std std-ref">Example on how to plot a timeseries of sounding data</span></a> (<code class="docutils literal notranslate"><span class="pre">plot_sonde.py</span></code>)</li>
+<li><strong>00:00.927</strong>: <a class="reference internal" href="plot_sonde.html#sphx-glr-source-auto-examples-plot-sonde-py"><span class="std std-ref">Example on how to plot a timeseries of sounding data</span></a> (<code class="docutils literal notranslate"><span class="pre">plot_sonde.py</span></code>)</li>
 <li><strong>00:00.000</strong>: <a class="reference internal" href="ceil_example.html#sphx-glr-source-auto-examples-ceil-example-py"><span class="std std-ref">Example for looking at ceilometer data</span></a> (<code class="docutils literal notranslate"><span class="pre">ceil_example.py</span></code>)</li>
 </ul>
 </div>

diff --git a/source/auto_examples/plot_sonde.html b/source/auto_examples/plot_sonde.html
@@ -8,7 +8,7 @@
   
   <meta name="viewport" content="width=device-width, initial-scale=1.0">
   
-  <title>Example on how to plot a timeseries of sounding data &mdash; Atmospheric Community Toolkit 0.post46+g1ed516a documentation</title>
+  <title>Example on how to plot a timeseries of sounding data &mdash; Atmospheric Community Toolkit 0.post48+gf378dfc documentation</title>
   
 
   
@@ -64,7 +64,7 @@
             
             
               <div class="version">
-                0.post46+g1ed516a
+                0.post48+gf378dfc
               </div>
             
           
@@ -287,7 +287,7 @@ Attributes:
 <span class="n">plt</span><span class="o">.</span><span class="n">show</span><span class="p">()</span>
 </pre></div>
 </div>
-<p class="sphx-glr-timing"><strong>Total running time of the script:</strong> ( 0 minutes  0.950 seconds)</p>
+<p class="sphx-glr-timing"><strong>Total running time of the script:</strong> ( 0 minutes  0.927 seconds)</p>
 <div class="sphx-glr-footer class sphx-glr-footer-example docutils container" id="sphx-glr-download-source-auto-examples-plot-sonde-py">
 <div class="sphx-glr-download docutils container">
 <a class="reference download internal" download="" href="../../_downloads/7c5e6e9245e1798420bf072f87b153a6/plot_sonde.py"><code class="xref download docutils literal notranslate"><span class="pre">Download</span> <span class="pre">Python</span> <span class="pre">source</span> <span class="pre">code:</span> <span class="pre">plot_sonde.py</span></code></a></div>

diff --git a/API/index.html b/API/index.html
@@ -8,7 +8,7 @@
   
   <meta name="viewport" content="width=device-width, initial-scale=1.0">
   
-  <title>API Reference &mdash; Atmospheric Community Toolkit 0.post46+g1ed516a documentation</title>
+  <title>API Reference &mdash; Atmospheric Community Toolkit 0.post48+gf378dfc documentation</title>
   
 
   
@@ -64,7 +64,7 @@
             
             
               <div class="version">
-                0.post46+g1ed516a
+                0.post48+gf378dfc
               </div>
             
           
@@ -172,7 +172,7 @@
 <col class="field-name" />
 <col class="field-body" />
 <tbody valign="top">
-<tr class="field-odd field"><th class="field-name">Release:</th><td class="field-body">0.post46+g1ed516a</td>
+<tr class="field-odd field"><th class="field-name">Release:</th><td class="field-body">0.post48+gf378dfc</td>
 </tr>
 <tr class="field-even field"><th class="field-name">Date:</th><td class="field-body">Mar 22, 2019</td>
 </tr>

diff --git a/index.html b/index.html
@@ -8,7 +8,7 @@
   
   <meta name="viewport" content="width=device-width, initial-scale=1.0">
   
-  <title>Atmospheirc Community Toolkit Documentation &mdash; Atmospheric Community Toolkit 0.post46+g1ed516a documentation</title>
+  <title>Atmospheirc Community Toolkit Documentation &mdash; Atmospheric Community Toolkit 0.post48+gf378dfc documentation</title>
   
 
   
@@ -63,7 +63,7 @@
             
             
               <div class="version">
-                0.post46+g1ed516a
+                0.post48+gf378dfc
               </div>
             
           

diff --git a/source/auto_examples/ceil_example.html b/source/auto_examples/ceil_example.html
@@ -8,7 +8,7 @@
   
   <meta name="viewport" content="width=device-width, initial-scale=1.0">
   
-  <title>Example for looking at ceilometer data &mdash; Atmospheric Community Toolkit 0.post46+g1ed516a documentation</title>
+  <title>Example for looking at ceilometer data &mdash; Atmospheric Community Toolkit 0.post48+gf378dfc documentation</title>
   
 
   
@@ -64,7 +64,7 @@
             
             
               <div class="version">
-                0.post46+g1ed516a
+                0.post48+gf378dfc
               </div>
             
           

diff --git a/API/corrections.html b/API/corrections.html
@@ -8,7 +8,7 @@
   
   <meta name="viewport" content="width=device-width, initial-scale=1.0">
   
-  <title>act.corrections (act.corrections) &mdash; Atmospheric Community Toolkit 0.post46+g1ed516a documentation</title>
+  <title>act.corrections (act.corrections) &mdash; Atmospheric Community Toolkit 0.post48+gf378dfc documentation</title>
   
 
   
@@ -64,7 +64,7 @@
             
             
               <div class="version">
-                0.post46+g1ed516a
+                0.post48+gf378dfc
               </div>
             
           

diff --git a/API/retrievals.html b/API/retrievals.html
@@ -8,7 +8,7 @@
   
   <meta name="viewport" content="width=device-width, initial-scale=1.0">
   
-  <title>act.retrievals (act.retrievals) &mdash; Atmospheric Community Toolkit 0.post46+g1ed516a documentation</title>
+  <title>act.retrievals (act.retrievals) &mdash; Atmospheric Community Toolkit 0.post48+gf378dfc documentation</title>
   
 
   
@@ -64,7 +64,7 @@
             
             
               <div class="version">
-                0.post46+g1ed516a
+                0.post48+gf378dfc
               </div>
             
           

diff --git a/API/discovery.html b/API/discovery.html
@@ -8,7 +8,7 @@
   
   <meta name="viewport" content="width=device-width, initial-scale=1.0">
   
-  <title>act.discovery (act.discovery) &mdash; Atmospheric Community Toolkit 0.post46+g1ed516a documentation</title>
+  <title>act.discovery (act.discovery) &mdash; Atmospheric Community Toolkit 0.post48+gf378dfc documentation</title>
   
 
   
@@ -64,7 +64,7 @@
             
             
               <div class="version">
-                0.post46+g1ed516a
+                0.post48+gf378dfc
               </div>
             
           

diff --git a/API/plotting.html b/API/plotting.html
@@ -8,7 +8,7 @@
   
   <meta name="viewport" content="width=device-width, initial-scale=1.0">
   
-  <title>act.plotting (act.plotting) &mdash; Atmospheric Community Toolkit 0.post46+g1ed516a documentation</title>
+  <title>act.plotting (act.plotting) &mdash; Atmospheric Community Toolkit 0.post48+gf378dfc documentation</title>
   
 
   
@@ -64,7 +64,7 @@
             
             
               <div class="version">
-                0.post46+g1ed516a
+                0.post48+gf378dfc
               </div>
             
           

diff --git a/_modules/act/utils/datetime_utils.html b/_modules/act/utils/datetime_utils.html
@@ -8,7 +8,7 @@
   
   <meta name="viewport" content="width=device-width, initial-scale=1.0">
   
-  <title>act.utils.datetime_utils &mdash; Atmospheric Community Toolkit 0.post46+g1ed516a documentation</title>
+  <title>act.utils.datetime_utils &mdash; Atmospheric Community Toolkit 0.post48+gf378dfc documentation</title>
   
 
   
@@ -62,7 +62,7 @@
             
             
               <div class="version">
-                0.post46+g1ed516a
+                0.post48+gf378dfc
               </div>
             
           
